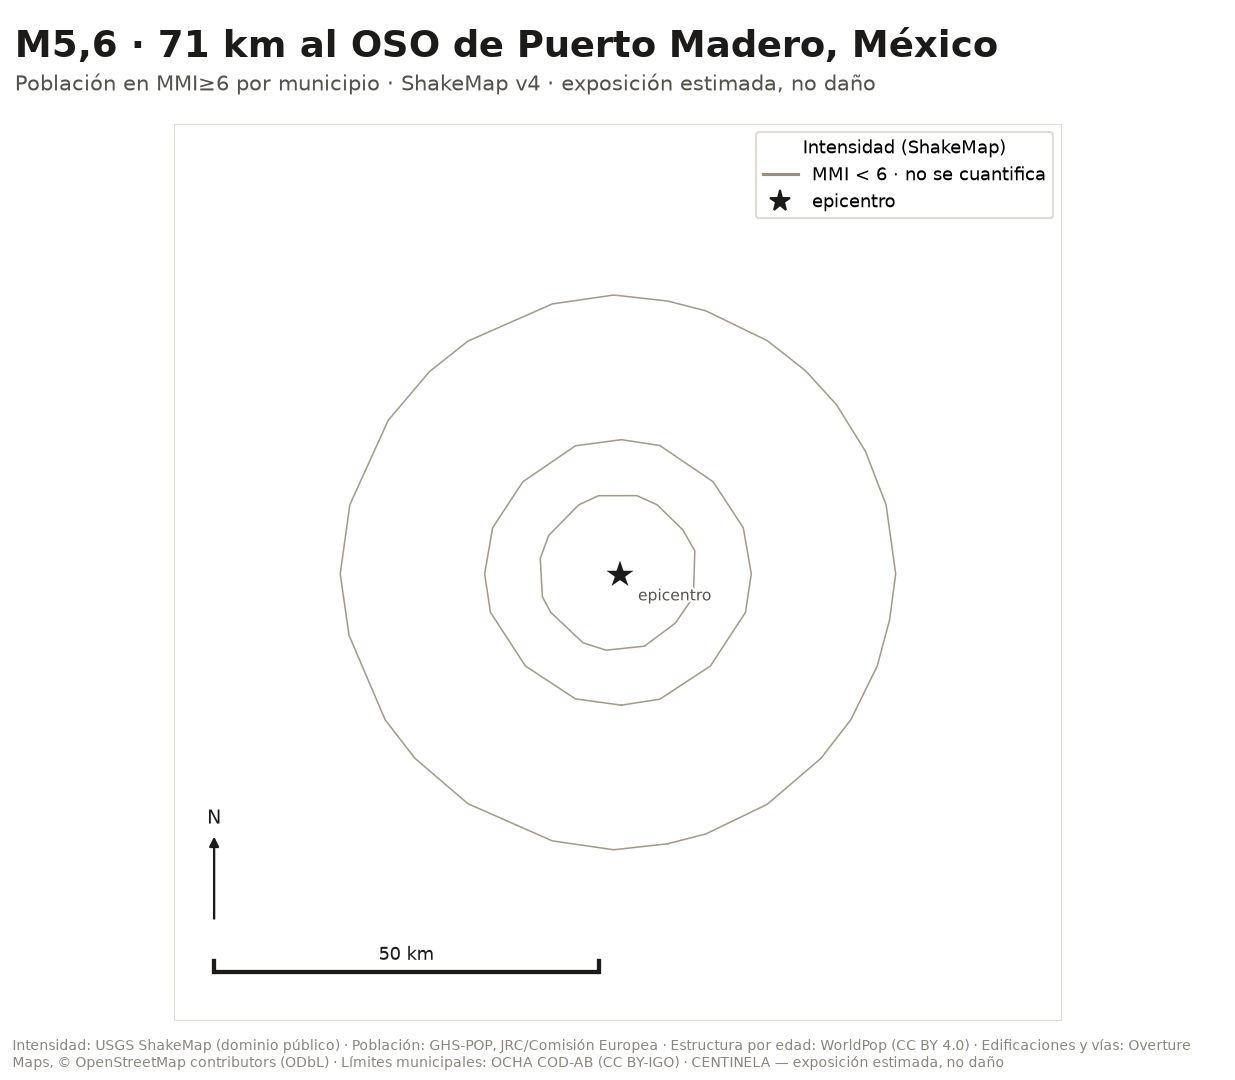
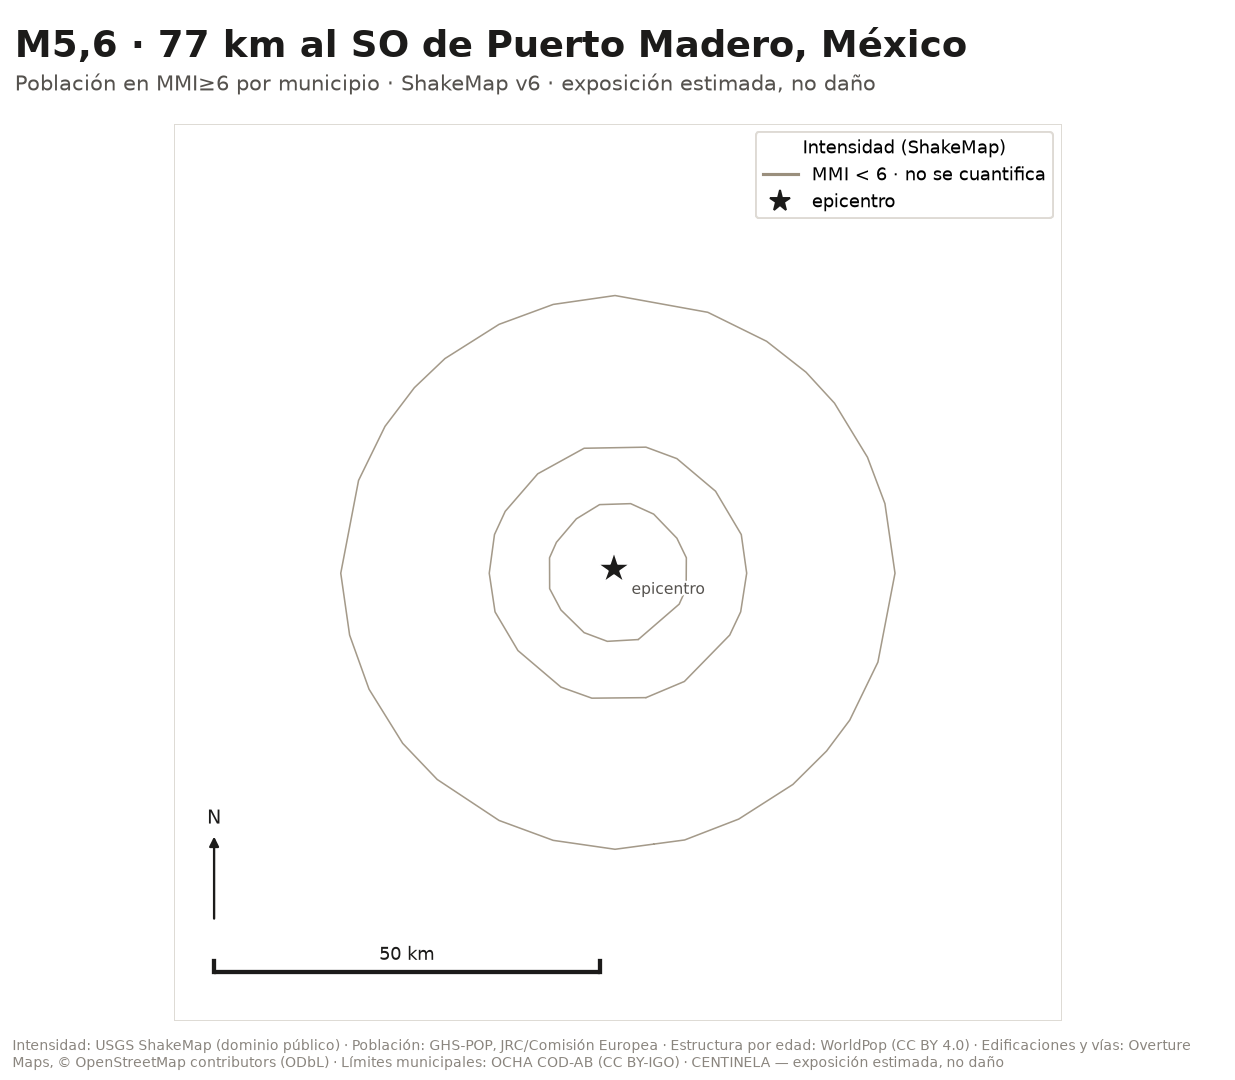
P3: reporte de us7000tdmp

diff --git a/reports/us7000tdmp/report.md b/reports/us7000tdmp/report.md
@@ -1,6 +1,6 @@
-# Exposición sísmica: M5,6 · 71 km al OSO de Puerto Madero, México
+# Exposición sísmica: M5,6 · 77 km al SO de Puerto Madero, México
 
-**Evento USGS:** `us7000tdmp` · **Origen:** 2026-09-02T12:28:31Z UTC · **Profundidad:** 10,0 km
+**Evento USGS:** `us7000tdmp` · **Origen:** 2026-09-02T12:28:31Z UTC · **Profundidad:** 11,0 km
 
 ## Exposición estimada
 
@@ -26,7 +26,7 @@ Ninguna banda de intensidad alcanza población, así que la única cifra que dim
 |---|---:|
 | 25 km | 0 |
 | 50 km | 0 |
-| 100 km | 610 mil |
+| 100 km | 210 mil |
 
 Los radios **no son bandas de intensidad**. Aquí no hay modelo de sacudida, solo distancia: un sismo superficial y uno profundo de la misma magnitud tienen el mismo circulo y no se parecen en nada. La cifra sirve para dimensionar, no para priorizar.
 
@@ -44,7 +44,14 @@ Las dos cifras **no se tabulan igual** y no se pueden leer una contra otra: PAGE
 
 Discrepancia entre GHS-POP y WorldPop: **no se pudo medir**. Ninguna celda dentro de las bandas publicadas tiene población de WorldPop con la que contrastar.
 
-- El epicentro está a 68 km de la población más cercana del país con la que se comparó. La sacudida no alcanzó territorio habitado.
+- El epicentro está a 76 km de la población más cercana del país con la que se comparó. La sacudida no alcanzó territorio habitado.
+
+## Cambios frente a la versión anterior
+
+- ShakeMap: v4 → v6
+- Profundidad: 10 → 11 km
+- Epicentro: reubicado 8 km
+- Ninguna cifra publicada cambia frente a la versión anterior.
 
 ## Descargas
 
@@ -53,10 +60,10 @@ Discrepancia entre GHS-POP y WorldPop: **no se pudo medir**. Ninguna celda dentr
 
 ## Procedencia
 
-- ShakeMap consumido: **v4**
+- ShakeMap consumido: **v6**
 - Ground Failure consumido: **ninguno** (no publicado aún)
 - Manifiesto de exposición: [`mex-v0.3`](https://github.com/sforero77/CENTINELA/blob/main/data/manifests/MEX.yaml)
-- Pipeline: `0.1.0` · Generado: 2026-09-08T18:32:45Z
+- Pipeline: `0.1.0` · Generado: 2026-09-25T10:30:58Z
 
 ## Advertencias
 
